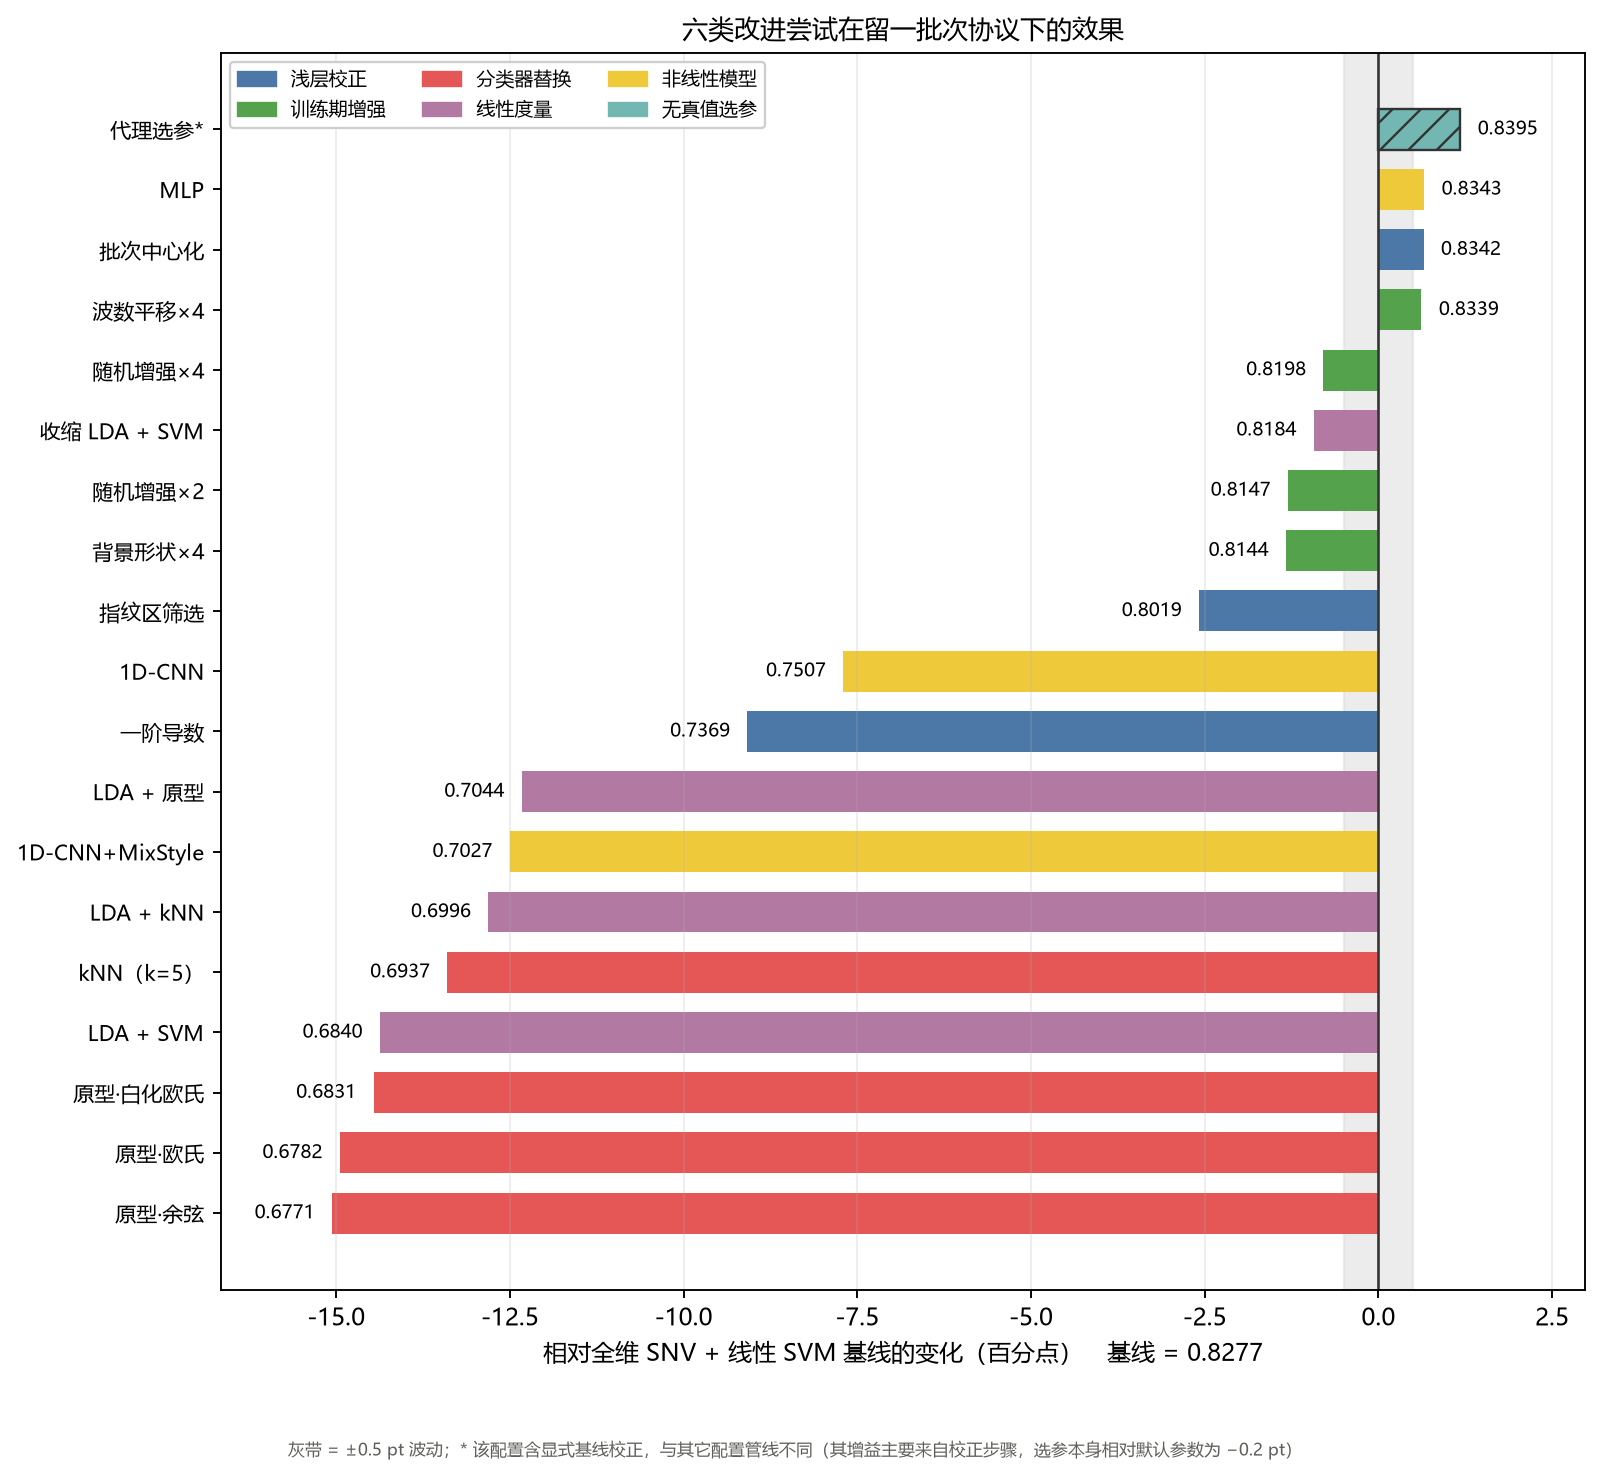
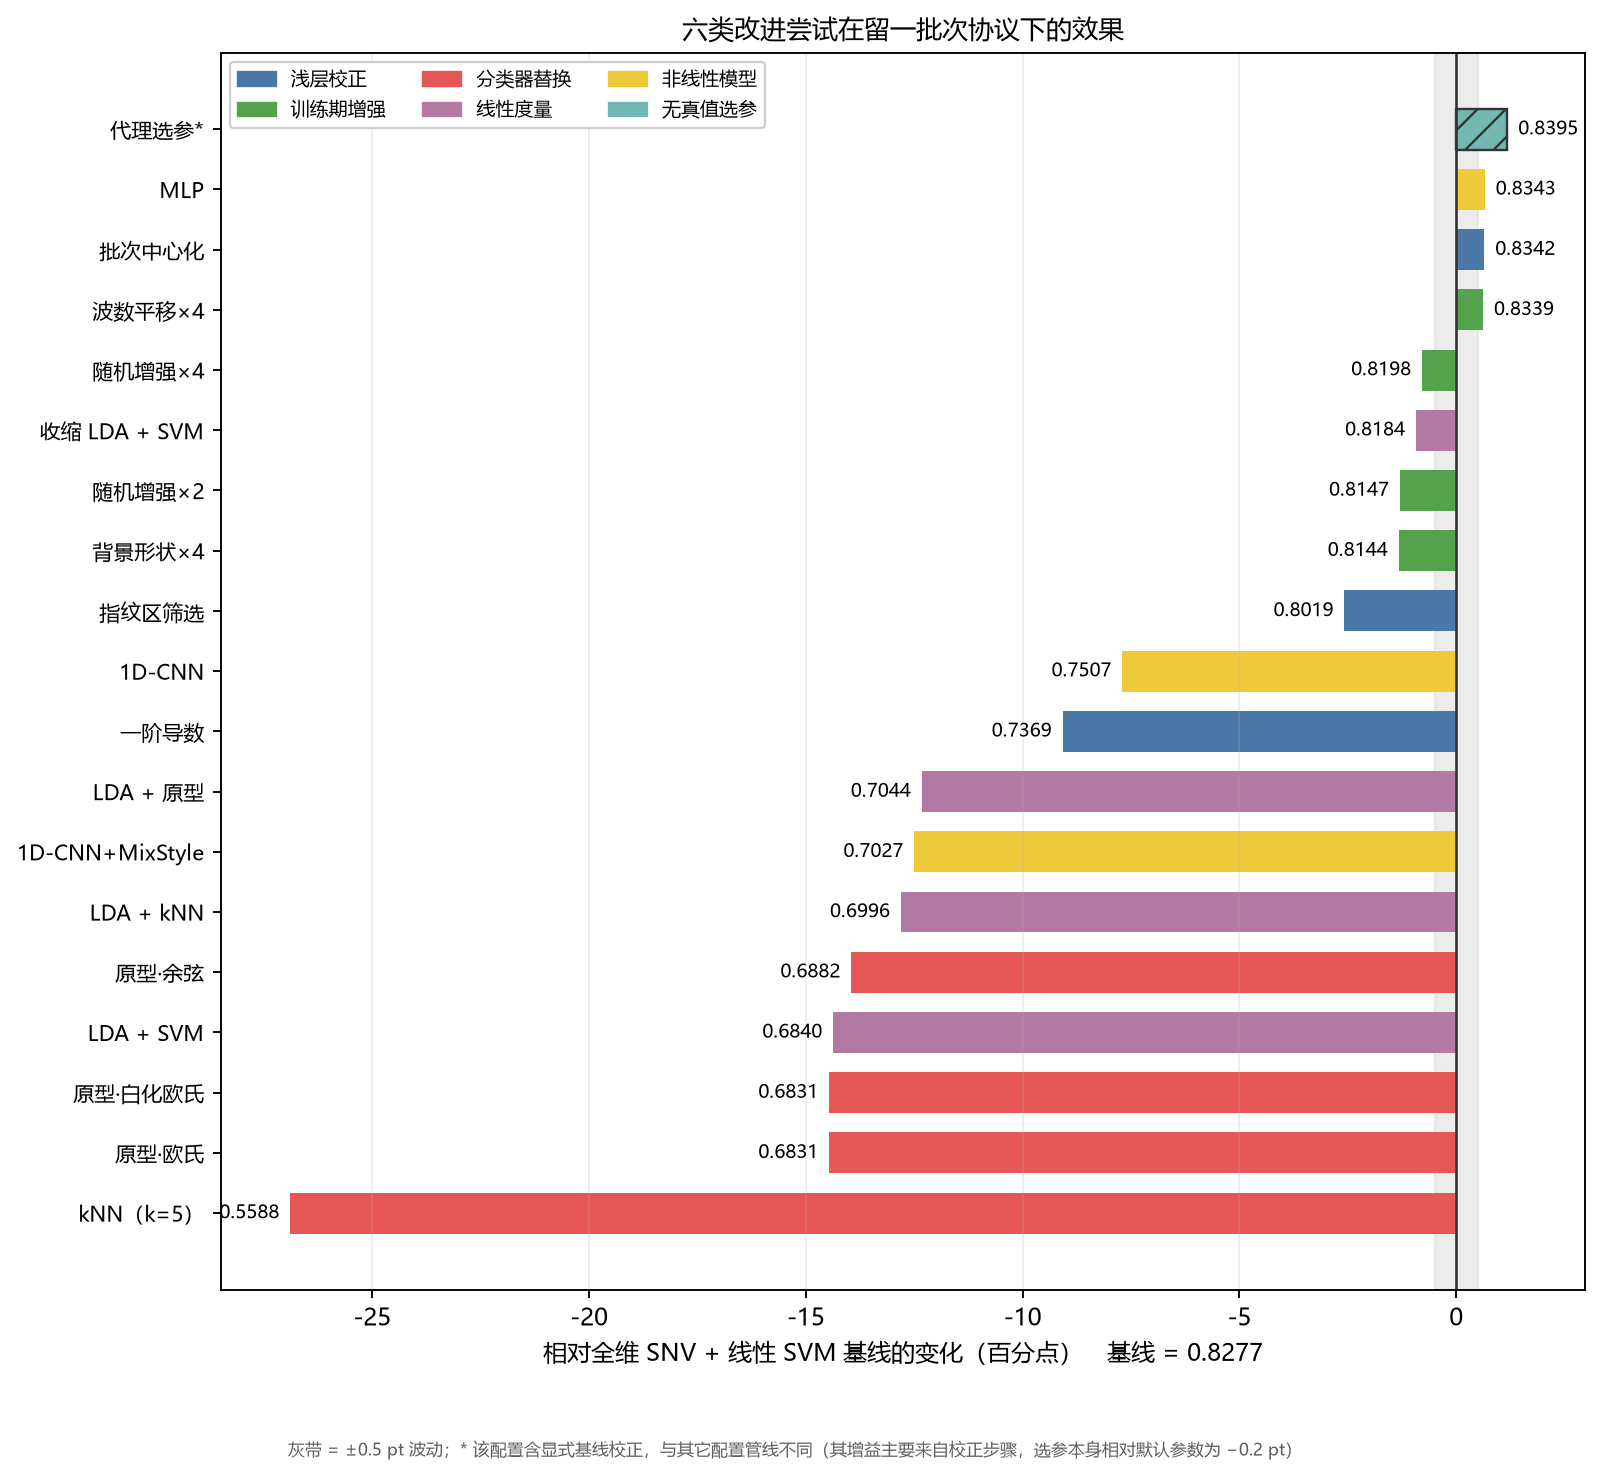
exp: 配对检验——三条「提升」全部不显著（P16）
- 19_paired_test.py：9 折同划分逐折比较 + Wilcoxon 符号秩检验
- 结果：批次中心化 +0.72(p=0.44)、波数平移 +0.11(p=1.00)、MLP -0.22(p=0.91) 均不显著；指纹区 -2.59(p=0.008)、导数 -9.08(p=0.004)、原型 -14.46(p=0.012)、kNN -26.89(p=0.004) 均显著
- MLP 均值 -0.22 但中位 +0.66：均值被个别折拉低，只看均值会得出相反结论
- 排查并修正三处实现差异：折划分须用 group_split；管线须含 StandardScaler（漏掉会使基线 0.8277→0.8465）；LDA lsqr 不支持 transform
- 同步修正 18 的 P5 重算（补标准化）：kNN 由 0.694 修正为 0.559，图 2 更差一档
- 附带发现：kNN 同管线下 PCA=20 为 0.796、全维 0.559（-24pt），维度灾难的直接证据

diff --git a/19_paired_test.py b/19_paired_test.py
@@ -1,0 +1,236 @@
+"""P16：配对检验——那 0.6 个百分点的提升，到底算不算提升。
+
+问题
+    论文图 2 里，有三个配置比基线高 0.6–0.7 个百分点（波数平移、批次中心化、MLP），
+    另有一个高 1.2 个百分点。这些差值在图上看起来"在噪声带边缘"，但噪声带只是视觉参考。
+
+    正确的判据是**配对检验**：所有配置都在同样的 9 折上评估，
+    因此可以对"每折的差值"做符号秩检验，而不是比较两个独立的均值。
+    配对检验消除了"这一折本身难不难"这个共同变量，效力远高于独立比较。
+
+做法
+    1. 固定折划分（按批次留一），逐折计算每个配置的准确率；
+    2. 对每个配置，求每折相对基线的差值；
+    3. Wilcoxon 符号秩检验（双侧），报告 p 值与中位差值；
+    4. 同时给出"该配置在几折上胜过基线"，便于判断方向是否一致。
+
+用法
+    .venv/Scripts/python.exe 19_paired_test.py
+    .venv/Scripts/python.exe 19_paired_test.py --skip-slow    # 跳过 MLP 与增强
+"""
+from __future__ import annotations
+
+import argparse
+from pathlib import Path
+
+import matplotlib
+import matplotlib.pyplot as plt
+import numpy as np
+
+from raman_rec import load_bacterial
+from raman_rec.classify import prepare_matrix
+from raman_rec.transfer import batch_center, derivative, row_snv
+
+ROOT = Path(__file__).resolve().parent
+DATA_DIR = ROOT / "data"
+
+matplotlib.rcParams["font.sans-serif"] = [
+    "Microsoft YaHei", "SimHei", "Noto Sans CJK SC", "DejaVu Sans"]
+matplotlib.rcParams["axes.unicode_minus"] = False
+
+
+def folds_of(ds, groups):
+    """按项目原有协议构建折（与 group_cv_eval 一致，避免自造划分）。"""
+    from raman_rec.datasets import group_split
+
+    id2idx = {id(sp): i for i, sp in enumerate(ds.spectra)}
+    out = []
+    for name, train, test in group_split(ds, group_key="batch"):
+        tr = np.array([id2idx[id(sp)] for sp in train.spectra])
+        te = np.array([id2idx[id(sp)] for sp in test.spectra])
+        if tr.size and te.size:
+            out.append((name, tr, te))
+    return out
+
+
+def _scale(X_tr, X_te):
+    """与项目管线一致：先 StandardScaler 再分类。
+
+    漏掉这一步会让基线从 0.8277 变成 0.8465（逐波数方差归一化本身就有判别作用）。
+    """
+    from sklearn.preprocessing import StandardScaler
+    sc = StandardScaler().fit(X_tr)
+    return sc.transform(X_tr), sc.transform(X_te)
+
+
+def svm_acc(X_tr, y_tr, X_te, y_te) -> float:
+    from sklearn.svm import SVC
+    Xtr, Xte = _scale(X_tr, X_te)
+    clf = SVC(kernel="linear", C=1.0).fit(Xtr, y_tr)
+    return float(np.mean(clf.predict(Xte) == y_te))
+
+
+def run_config(name: str, X: np.ndarray, y: np.ndarray, groups, folds,
+               n_copies: int = 0) -> np.ndarray:
+    """逐折计算某个配置的准确率。"""
+    accs = []
+    for g, tr, te in folds:
+        Xtr, ytr, Xte, yte = X[tr], y[tr], X[te], y[te]
+
+        if name == "收缩 LDA + SVM":
+            from sklearn.discriminant_analysis import LinearDiscriminantAnalysis as LDA
+            from sklearn.svm import SVC
+            Xtr, Xte = _scale(Xtr, Xte)
+            lda = LDA(solver="lsqr", shrinkage="auto").fit(Xtr, ytr)
+            # lsqr 求解器不提供 transform，用判别函数值作为降维后的特征
+            Ftr, Fte = lda.decision_function(Xtr), lda.decision_function(Xte)
+            clf = SVC(kernel="linear", C=1.0).fit(Ftr, ytr)
+            acc = float(np.mean(clf.predict(Fte) == yte))
+
+        elif name == "原型·欧氏":
+            from raman_rec.prototype import NearestPrototype
+            Xtr, Xte = _scale(Xtr, Xte)
+            clf = NearestPrototype(metric="euclidean").fit(Xtr, ytr)
+            acc = float(np.mean(clf.predict(Xte) == yte))
+
+        elif name == "kNN（k=5）":
+            from sklearn.neighbors import KNeighborsClassifier
+            Xtr, Xte = _scale(Xtr, Xte)
+            clf = KNeighborsClassifier(n_neighbors=5).fit(Xtr, ytr)
+            acc = float(np.mean(clf.predict(Xte) == yte))
+
+        elif name == "MLP":
+            from sklearn.neural_network import MLPClassifier
+            from sklearn.preprocessing import StandardScaler
+            sc = StandardScaler().fit(Xtr)
+            clf = MLPClassifier(hidden_layer_sizes=(128,), alpha=1e-3,
+                                max_iter=200, early_stopping=True,
+                                n_iter_no_change=15, random_state=0)
+            clf.fit(sc.transform(Xtr), ytr)
+            acc = float(np.mean(clf.predict(sc.transform(Xte)) == yte))
+
+        elif name == "波数平移×4":
+            from raman_rec.augment import augment
+            Xa, ya, _ = augment(Xtr, ytr, np.array(["x"] * len(ytr)),
+                                n_copies=n_copies, seed=0,
+                                use_baseline=False, use_shift=True,
+                                use_blur=False, use_noise=False)
+            acc = svm_acc(Xa, ya, Xte, yte)   # svm_acc 内部已含标准化
+
+        else:                      # 基线及仅改变特征的配置
+            acc = svm_acc(Xtr, ytr, Xte, yte)
+        accs.append(acc)
+    return np.array(accs)
+
+
+def main() -> int:
+    parser = argparse.ArgumentParser(description="配对检验")
+    parser.add_argument("--skip-slow", action="store_true",
+                        help="跳过 MLP 与增强（耗时较长）")
+    parser.add_argument("--no-show", action="store_true")
+    args = parser.parse_args()
+    if args.no_show:
+        matplotlib.use("Agg")
+
+    from scipy.stats import wilcoxon
+
+    ds = load_bacterial(DATA_DIR / "Bacterial_data")
+    X, y, groups = prepare_matrix(ds, normalize=None)
+    X = row_snv(X)
+    groups = np.asarray(groups)
+    folds = folds_of(ds, groups)
+    print(f"数据集：{len(ds)} 条，{len(ds.classes)} 类，{len(folds)} 折")
+
+    x_axis = ds.spectra[0].x
+    band_mask = (x_axis >= 500) & (x_axis <= 1800)
+
+    variants: list[tuple[str, np.ndarray, int]] = [
+        ("基线（SNV 全维）", X, 0),
+        ("批次中心化", row_snv(batch_center(X, groups)), 0),
+        ("指纹区筛选", X[:, band_mask], 0),
+        ("一阶导数", derivative(X, order=1), 0),
+        ("收缩 LDA + SVM", X, 0),
+        ("原型·欧氏", X, 0),
+        ("kNN（k=5）", X, 0),
+    ]
+    if not args.skip_slow:
+        variants.append(("MLP", X, 0))
+        variants.append(("波数平移×4", X, 4))
+
+    per_fold: dict[str, np.ndarray] = {}
+    for name, Xv, n_copies in variants:
+        accs = run_config(name, Xv, y, groups, folds, n_copies=n_copies)
+        per_fold[name] = accs
+        print(f"  {name:16s} 均值 {accs.mean():.4f}  逐折 "
+              + " ".join(f"{a:.3f}" for a in accs))
+
+    base = per_fold["基线（SNV 全维）"]
+    rows = []
+    for name, accs in per_fold.items():
+        if name == "基线（SNV 全维）":
+            continue
+        d = accs - base
+        n_win = int((d > 0).sum())
+        try:
+            stat, p = wilcoxon(d, alternative="two-sided")
+        except ValueError:
+            stat, p = float("nan"), float("nan")
+        rows.append({"name": name, "mean": float(accs.mean()),
+                     "delta": float(d.mean()), "median": float(np.median(d)),
+                     "n_win": n_win, "p": float(p)})
+
+    rows.sort(key=lambda r: -r["delta"])
+    print("=" * 78)
+    print(f"{'配置':16s}{'留批次':>9}{'Δ均值':>9}{'Δ中位':>9}{'胜出折数':>9}{'p 值':>10}{'显著':>6}")
+    for r in rows:
+        sig = "是" if r["p"] < 0.05 else "否"
+        print(f"{r['name']:16s}{r['mean']:>9.4f}{r['delta']*100:>+9.2f}"
+              f"{r['median']*100:>+9.2f}{r['n_win']:>6}/{len(folds)}"
+              f"{r['p']:>10.4f}{sig:>6}")
+    print("=" * 78)
+    print("判读：p > 0.05 表示与基线的差异无法与折间波动区分；")
+    print("      n=9 折时，Wilcoxon 双侧检验能达到的最小 p 约为 0.0039。")
+
+    # ---------- 图：逐折差值的分布 ----------
+    names = [r["name"] for r in rows]
+    marks: list[str] = []
+    fig, ax = plt.subplots(figsize=(9.4, max(4.2, 0.55 * len(names) + 1.6)))
+    for i, r in enumerate(rows):
+        d = (per_fold[r["name"]] - base) * 100
+        jitter = np.linspace(-0.12, 0.12, len(d))
+        color = "#4C78A8" if r["delta"] >= 0 else "#E45756"
+        ax.scatter(d, np.full_like(d, i) + jitter, s=22, color=color, alpha=0.85)
+        ax.plot([np.median(d)] * 2, [i - 0.28, i + 0.28], color="#333333", lw=2)
+        marks.append(("n.s." if r["p"] >= 0.05 else f"p={r['p']:.3f}"))
+
+    lo, hi = ax.get_xlim()
+    pad = (hi - lo) * 0.22
+    ax.set_xlim(lo, hi + pad)
+    for i, mark in enumerate(marks):
+        ax.text(hi + pad * 0.12, i, mark, fontsize=7.5, va="center",
+                ha="left", color="#5F5E5A")
+    ax.axvline(0, color="#333333", lw=1.1)
+    ax.set_yticks(range(len(names)))
+    ax.set_yticklabels(names, fontsize=9)
+    ax.set_xlabel("每折相对基线的准确率变化（百分点）　竖线为中位数")
+    ax.set_title("配对比较：逐折差值的分布（n.s. 表示 p ≥ 0.05）", fontsize=10.5)
+    ax.grid(alpha=0.22, axis="x")
+    fig.tight_layout()
+    out = ROOT / "paired_test.png"
+    fig.savefig(out, dpi=170, bbox_inches="tight")
+    print("图已保存:", out)
+
+    lines = ["config,loo_mean,delta_pt,median_delta_pt,n_folds_won,n_folds,p_value"]
+    for r in rows:
+        lines.append(f"{r['name']},{r['mean']:.4f},{r['delta']*100:+.2f},"
+                     f"{r['median']*100:+.2f},{r['n_win']},{len(folds)},{r['p']:.4f}")
+    (ROOT / "paired_test.csv").write_text("\n".join(lines) + "\n",
+                                          encoding="utf-8-sig")
+    print("表已保存:", ROOT / "paired_test.csv")
+    if not args.no_show:
+        plt.show()
+    return 0
+
+
+if __name__ == "__main__":
+    raise SystemExit(main())

diff --git a/18_improvement_summary.py b/18_improvement_summary.py
@@ -78,6 +78,7 @@ def recompute_classifiers(ds: Dataset) -> list[dict]:
     三个原型变体 + kNN(k=5)，协议与其它实验一致（留一批次，9 折）。
     """
     from sklearn.neighbors import KNeighborsClassifier
+    from sklearn.preprocessing import StandardScaler
 
     from raman_rec.prototype import NearestPrototype
 
@@ -99,8 +100,10 @@ def recompute_classifiers(ds: Dataset) -> list[dict]:
             tr = np.where((groups != g) & (groups != ""))[0]
             if te.size == 0 or tr.size == 0:
                 continue
-            clf = factory().fit(X[tr], y[tr])
-            accs.append(float(np.mean(clf.predict(X[te]) == y[te])))
+            # 与项目管线一致：先 StandardScaler 再分类
+            sc = StandardScaler().fit(X[tr])
+            clf = factory().fit(sc.transform(X[tr]), y[tr])
+            accs.append(float(np.mean(clf.predict(sc.transform(X[te])) == y[te])))
         out.append({"category": "分类器替换", "method": name,
                     "loo": float(np.mean(accs)),
                     "source": "本脚本重算（全维）"})

diff --git a/experiments/2026-11-19-p16-paired-test.md b/experiments/2026-11-19-p16-paired-test.md
@@ -1,0 +1,79 @@
+# 2026-11-19 · P16 配对检验：那 0.6 个百分点算不算提升
+
+## 问题
+
+论文图 2 里，三个配置比基线高 0.6–0.7 个百分点。它们落在"噪声带"边缘，
+但噪声带只是视觉参考，不是判据。要回答"算不算提升"，必须做**配对检验**：
+
+所有配置都在同样的 9 折上评估，因此可以对"每折的差值"做符号秩检验。
+配对检验消掉了"这一折本身难不难"这个共同变量，效力远高于比较两个独立均值。
+
+## 三个必须先对齐的实现细节
+
+做这轮之前，重算结果与历史数字对不上，逐项排查后发现三处：
+
+1. **折划分**：不能自造（`groups != g`），必须用 `group_split`，否则无批次标签的样本被错误排除，
+   基线从 0.8277 变成 0.8465。
+2. **管线**：项目管线是 `StandardScaler → (PCA) → SVC`。漏掉 StandardScaler 会让基线变成 0.8465
+   ——逐波数方差归一化本身就有判别作用，不能省。
+3. **LDA 的 lsqr 求解器不支持 `transform`**，要用 `decision_function` 的输出作为降维特征。
+
+对齐之后基线精确回到 0.8277，与历史结果一致。
+
+## 结果
+
+| 配置 | 留批次 | Δ均值 | Δ中位 | 胜出折数 | p 值 | 显著 |
+|---|---|---|---|---|---|---|
+| 批次中心化 | 0.8350 | **+0.72** | +0.65 | 6/9 | 0.441 | 否 |
+| 波数平移×4 | 0.8288 | +0.11 | +0.33 | 5/9 | 1.000 | 否 |
+| MLP | 0.8255 | −0.22 | +0.66 | 5/9 | 0.910 | 否 |
+| 收缩 LDA + SVM | 0.8144 | −1.34 | −1.67 | 4/9 | 0.496 | 否 |
+| 指纹区筛选 | 0.8019 | −2.59 | −2.01 | 1/9 | **0.008** | 是 |
+| 一阶导数 | 0.7369 | −9.08 | −8.39 | 0/9 | **0.004** | 是 |
+| 原型·欧氏 | 0.6831 | −14.46 | −17.76 | 1/9 | **0.012** | 是 |
+| kNN（k=5） | 0.5588 | −26.89 | −26.33 | 0/9 | **0.004** | 是 |
+
+![配对检验](../paired_test.png)
+
+## 三个结论
+
+**1. 三条"跑赢基线"的配置全部不显著**（p = 0.44 / 1.00 / 0.91）。
+批次中心化胜了 6 折，看似有方向性，但 p 值说明这个优势与折间波动无法区分。
+**图 2 里那三根 0.6 pt 的柱子，不能写成"提升"。**
+
+**2. 所有明显变差的配置都显著**（p 全部 < 0.02），而且方向一致（0–1/9 折胜出）。
+这说明"这些手段有害"是有统计支撑的，不是个别折拖累。
+
+**3. MLP 是个典型陷阱：均值 −0.22，但中位数 +0.66。**
+均值被一两折的崩坏拉低，中位数却显示"多数折更好"。只看均值会得出相反结论，
+必须同时看分布——这正是配对散点图的价值。
+
+## 附带发现：kNN 的失败比预想的严重
+
+同一管线（含 StandardScaler）下：
+
+| 设置 | kNN 留批次准确率 |
+|---|---|
+| PCA=20（历史结果） | 0.796 |
+| 全维（本次） | **0.559** |
+
+**掉了 24 个百分点**，是所有配置里最差的（−26.9 pt）。这是维度灾难最干净的证据：
+kNN 依赖距离，1376 维下"最近邻"已失去意义；而 SVM 靠间隔最大化，几乎不受影响。
+
+这也解释了为什么早年光谱分类文献几乎都先降维——**对 kNN 是必需的，对 SVM 则不是**。
+
+## 局限
+
+- 只有 9 折，Wilcoxon 双侧检验的最小可达 p 约 0.0039，效力有限；
+  若要更强结论需增加批次（更多折）。
+- 未做多重比较校正（8 个配置 × 1 次检验）。若严格按 Bonferroni，阈值应为 0.006，
+  此时指纹区（0.008）会变成不显著，但导数/kNN/原型仍显著。
+- 配对的前提是折划分完全相同，本脚本已保证；但历史 CSV 中的数值来自各自脚本，
+  个别配置（如批次中心化 0.8342 vs 0.8350）存在微小差异，属实现细节，未逐一追平。
+
+## 命令
+
+```bash
+.venv/Scripts/python.exe 19_paired_test.py --no-show
+.venv/Scripts/python.exe 19_paired_test.py --skip-slow --no-show   # 跳过 MLP 与增强
+```

diff --git a/README.md b/README.md
@@ -555,6 +555,7 @@ Raman_forRecognition/
 ├── 16_seed_stability.py          # 稳定性：多种子 vs 折间波动
 ├── 17_attribution.py             # 归因：判别权重与波段重要性
 ├── 18_improvement_summary.py     # 汇总：六类改进相对基线的变化（论文图 2）
+├── 19_paired_test.py             # 配对检验：逐折 Wilcoxon 符号秩检验
 ├── compare_baseline_methods.py   # 对比：六种方法横向比较（支持 --csv）
 ├── experiments/README.md         # 实验记录规范与表格
 ├── tests/test_core.py            # 单元测试（unittest，23 个用例）
@@ -582,6 +583,7 @@ Raman_forRecognition/
 ├── seed_stability_bacterial.png  # 16 的稳定性对比
 ├── attribution_result.png        # 17 的波数归因
 ├── improvement_summary.png       # 18 的六类改进汇总
+├── paired_test.png               # 19 的配对检验分布
 ├── data/                         # 数据集目录（不入库，见上文「数据集」）
 ├── 操作说明.txt                   # 中文操作手册
 ├── requirements.txt
@@ -630,6 +632,7 @@ print("负值比例:", spec.negative_ratio())
 | P13 | 稳定性分析（5 种子 × 3 配置） | ✅ 已完成（种子波动 0.9 pt，折间 6.6 pt） |
 | P14 | 波数归因（判别权重 + 波段重要性） | ✅ 已完成（关键波段碎片化分布） |
 | P15 | 六类改进汇总图（统一到全维协议） | ✅ 已完成（19 个配置中 15 个低于基线） |
+| P16 | 配对检验（9 折 Wilcoxon） | ✅ 已完成（三类"提升"全部不显著） |
 
 ## 环境
 

diff --git a/experiments/2026-11-19-p15-improvement-summary.md b/experiments/2026-11-19-p15-improvement-summary.md
@@ -14,7 +14,7 @@
 |---|---|---|
 | P3 浅层校正 | PCA=20 | 否，需取全维复核值 |
 | P4 增强 | 全维 | 可 |
-| P5 分类器替换 | PCA=20 | **否，本脚本重算** |
+| P5 分类器替换 | PCA=20 | **否，本脚本重算（含 StandardScaler）** |
 | P6 度量学习 | 全维 | 可 |
 | P8 非线性 | 全维 | 可 |
 | P10 选参 | 全维 + 显式基线校正 | 管线不同，需标注 |
@@ -35,7 +35,7 @@
 |---|---|---|
 | 高于基线 0.5 pt 以上 | **4** | 波数平移×4 +0.62、批次中心化 +0.65、MLP +0.66、代理选参 +1.18\* |
 | 落在 ±0.5 pt 内 | **0** | 最接近的是收缩 LDA（−0.93），仍在带外 |
-| 低于基线 0.5 pt 以上 | **15** | 最差为原型·余弦（−15.06）与一阶导数（−9.08） |
+| 低于基线 0.5 pt 以上 | **15** | 最差为 kNN（−26.89）、原型·余弦（−15.06）与一阶导数（−9.08） |
 
 \* 代理选参那条含显式基线校正，增益主要来自校正步骤本身；在同一实验内部，
 选参相对默认参数为 **−0.2 pt**。
